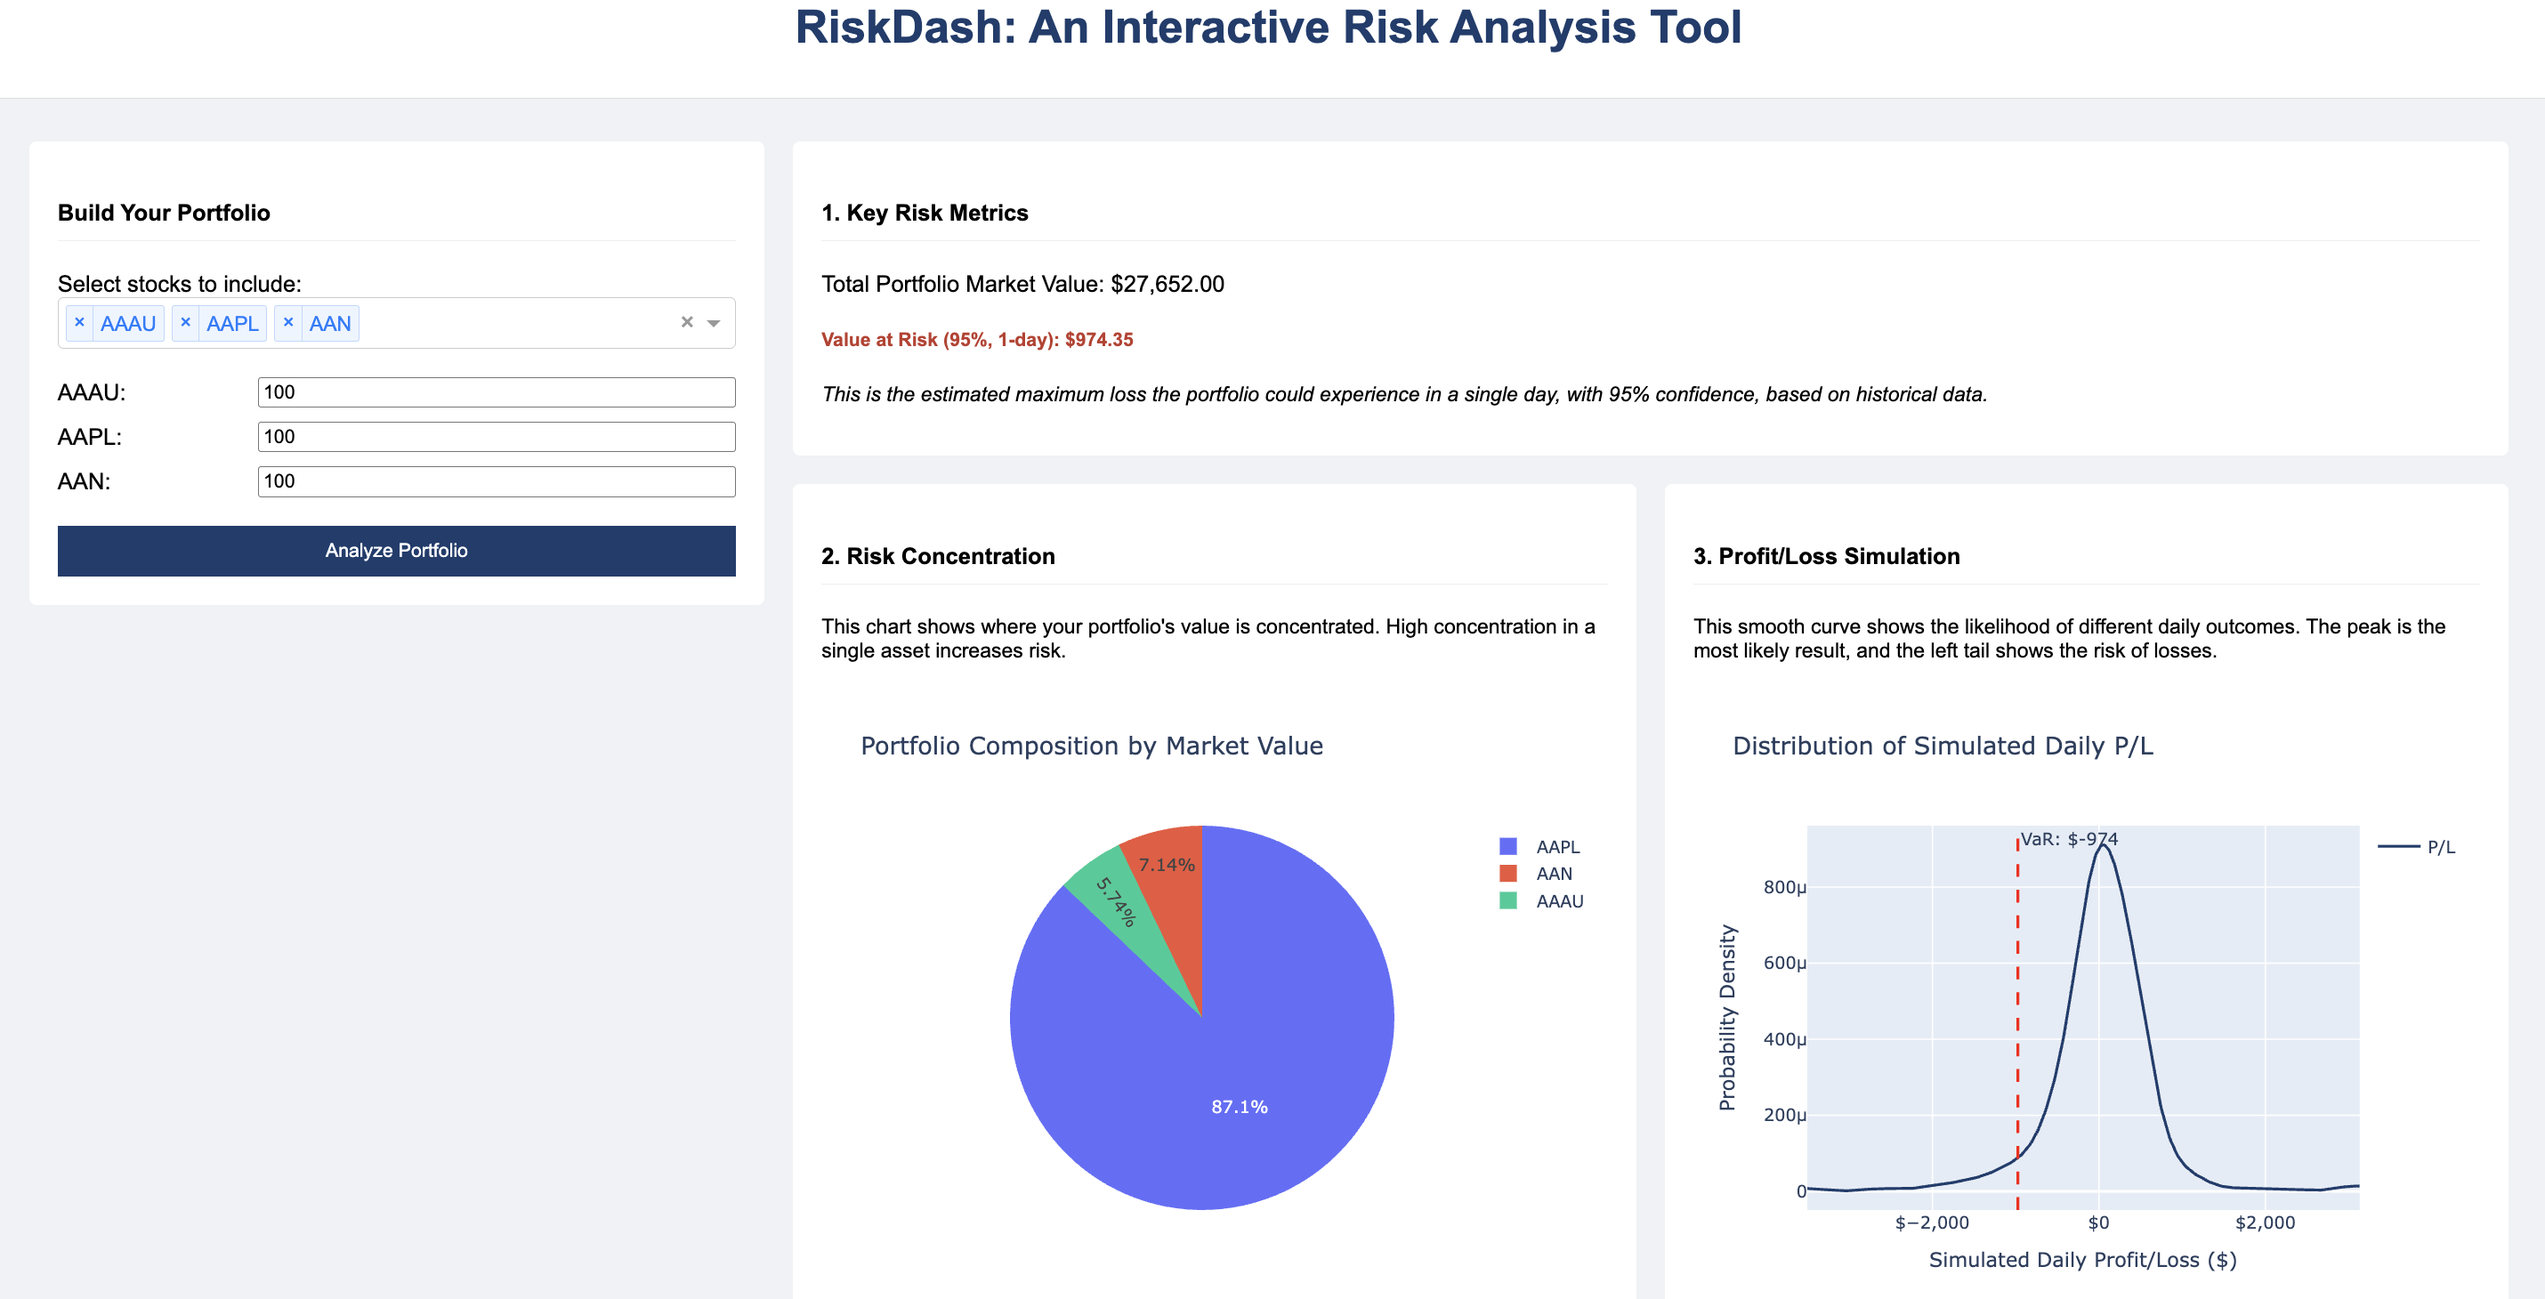
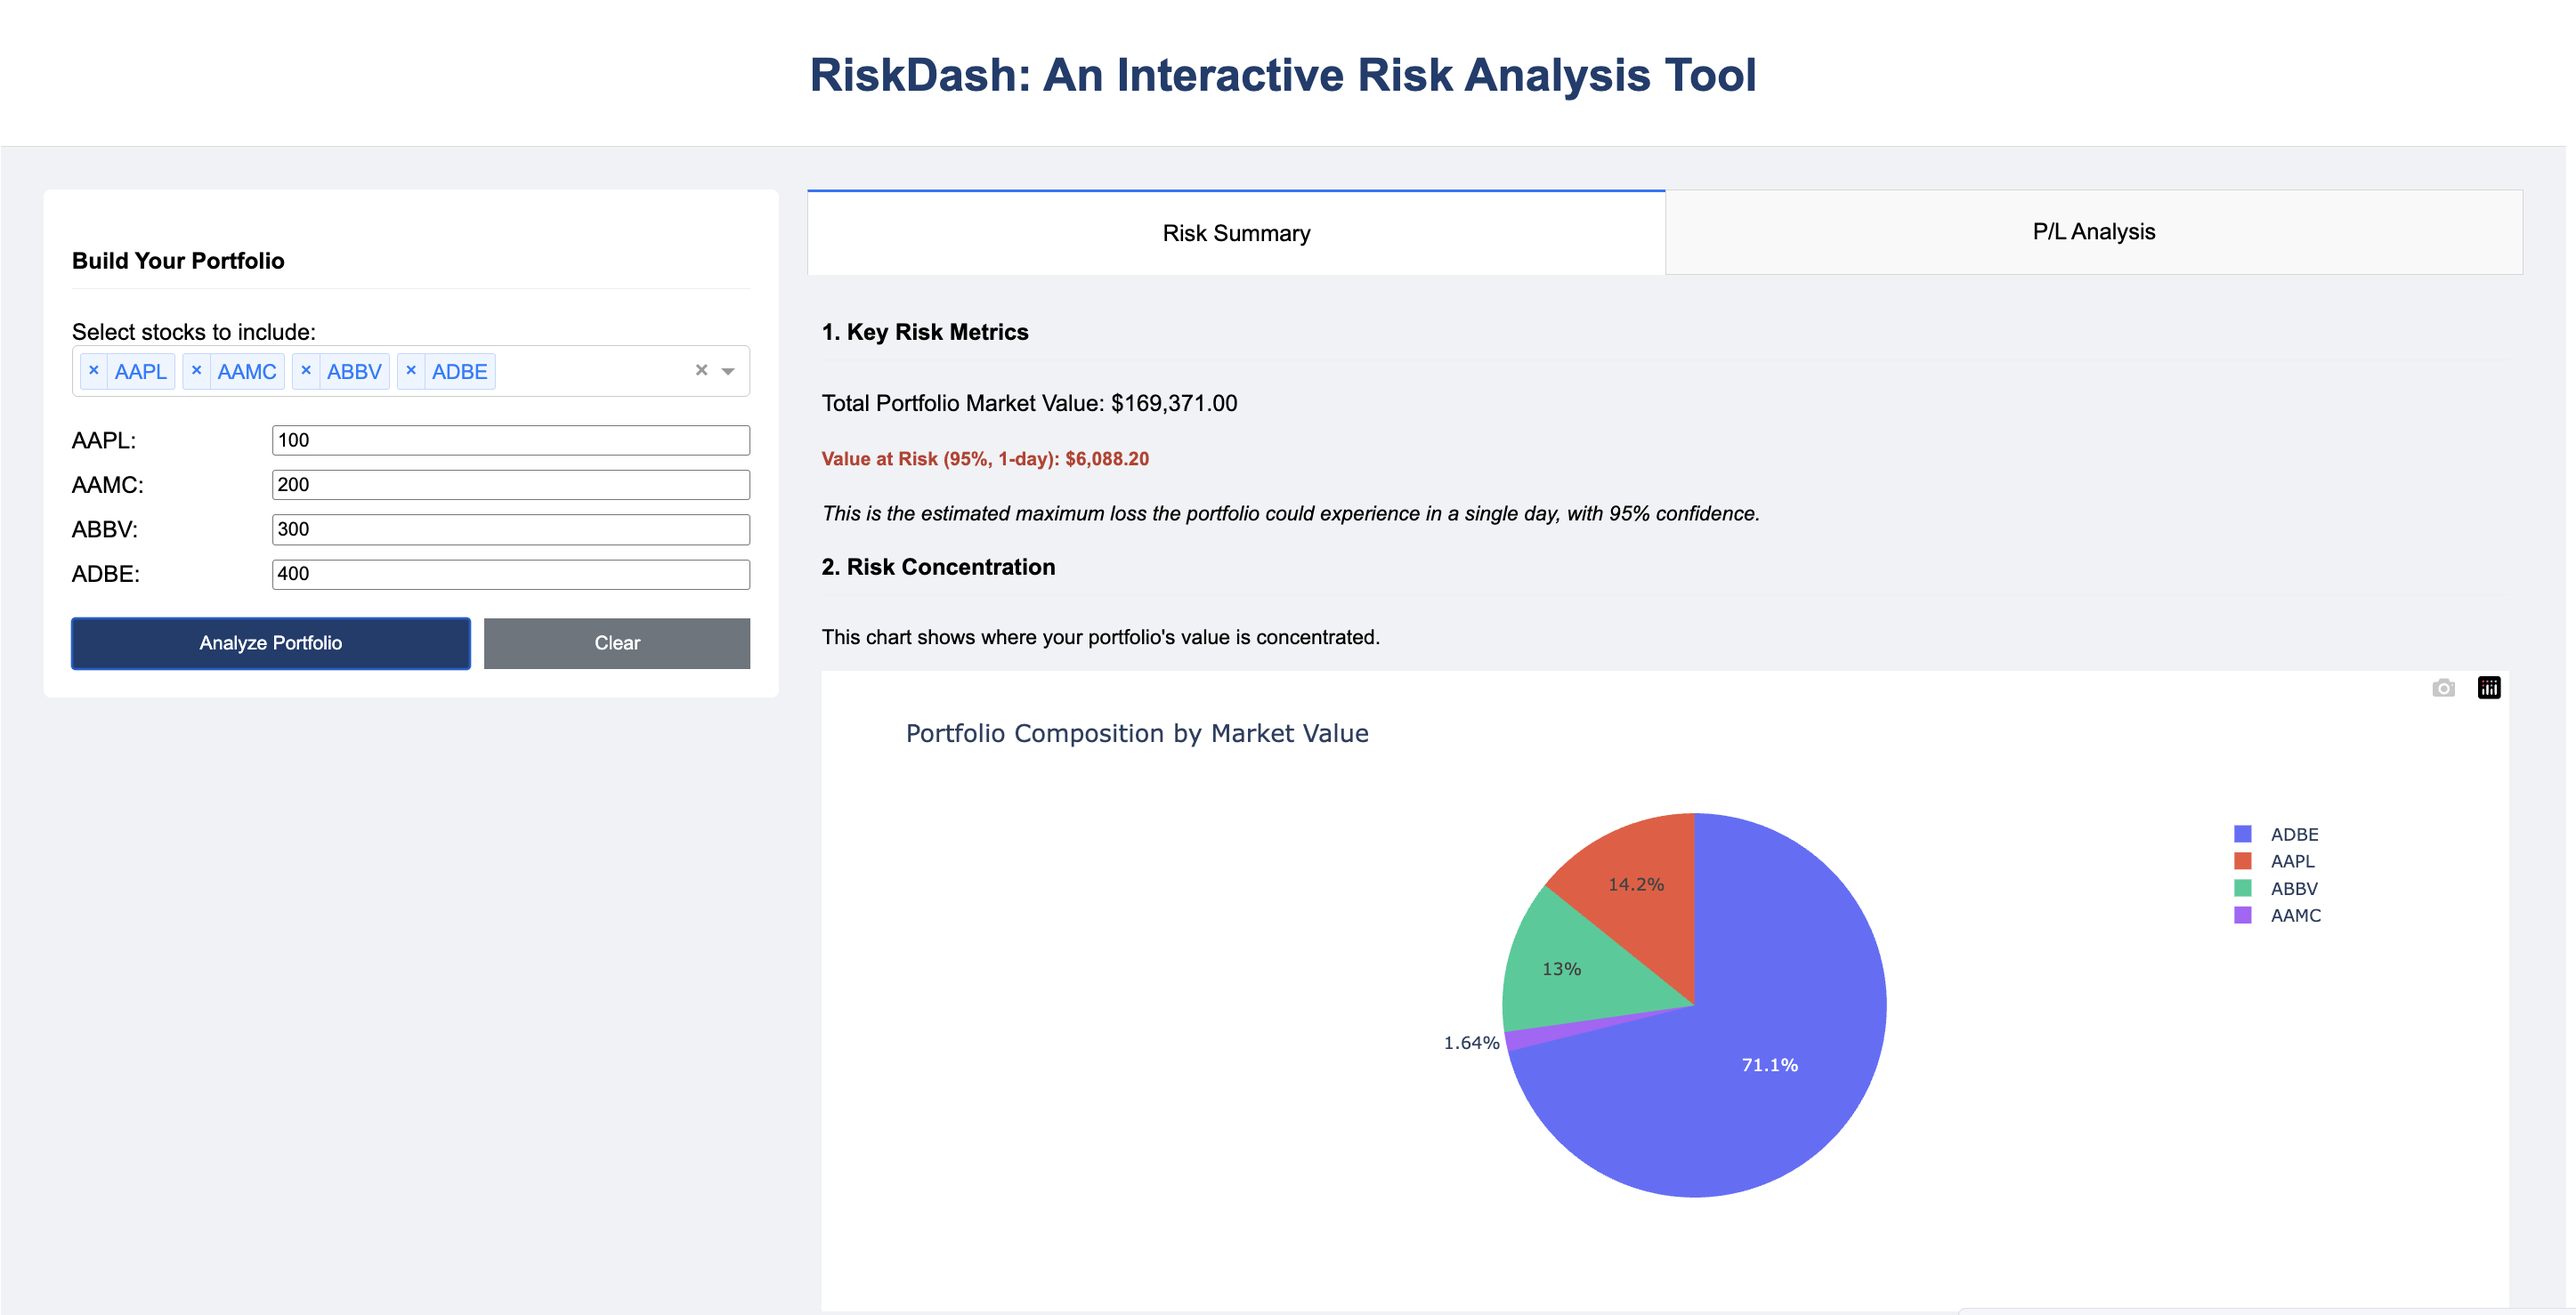
updated ss

diff --git a/debug_api.py b/debug_api.py
@@ -54,7 +54,7 @@ if __name__ == '__main__':
     # --- Define the portfolio you want to test here ---
     # This portfolio uses a less common ETF which might have incomplete data,
     # making it a good candidate for debugging.
-    test_portfolio = {'AAPL': 100} 
+    test_portfolio = {'MSFT': 100} 
 
     # You can also test the sample portfolios from the dashboard
     # test_portfolio = {"Tech Heavy": {"AAPL": 40, "MSFT": 30, "GOOG": 20, "TSLA": 10}}

diff --git a/README.md b/README.md
@@ -5,6 +5,7 @@ RiskDash is a prototype of a financial risk management system. It provides an in
 The application is built with a modern Python stack, featuring a backend API powered by Flask and a frontend dashboard built with Plotly and Dash. The backend uses the SQLAlchemy ORM to interact with a PostgreSQL database, ensuring the code is maintainable and robust.
 
 ![Dashboard Screenshot](./screenshots/ss_1.png)
+![Dashboard Screenshot](./screenshots/ss_2.png)
 
 ## Key Features
 
